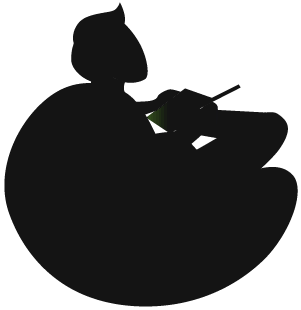
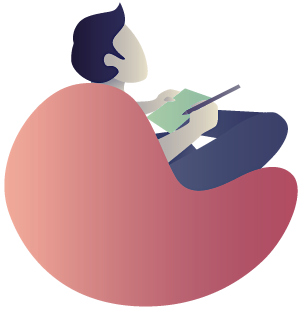
fix image colouring

diff --git a/index.html b/index.html
@@ -113,13 +113,13 @@
 									<a href="index.html">Kurs</a>
 									<ul class="sub-menu">
 										<li><a href="index.html">Home One</a></li>
-										<li><a href="index-two.html">Home Two</a></li>
+										<!-- <li><a href="index-two.html">Home Two</a></li>
 										<li><a href="index-three.html">Home Three</a></li>
 										<li><a href="index-four.html">Home Four</a></li>
 										<li><a href="index-five.html">Home Five</a></li>
 										<li><a href="index-six.html">Home Six</a></li>
 										<li><a href="index-seven.html">Home Seven</a></li>
-										<li><a href="index-eight.html">Home Eight</a></li>
+										<li><a href="index-eight.html">Home Eight</a></li> -->
 									</ul>
 								</li>
 								<li><a href="about.html">Egtim Portali</a></li>
@@ -132,7 +132,7 @@
 										<li><a href="service.html">Service</a></li>
 										
 										<li><a href="pricing.html">Pricing</a></li>
-										<li class="menu-item-has-children">
+										<!-- <li class="menu-item-has-children">
 											<a href="portfolio.html">Portfolio</a>
 											<ul class="sub-menu">
 												<li><a href="portfolio-one.html">Style One</a></li>
@@ -140,11 +140,11 @@
 												<li><a href="portfolio-three.html">Style Three</a></li>
 												<li><a href="portfolio-single.html">Portfolio Single</a></li>
 											</ul>
-										</li>
+										</li> -->
 										<li><a href="faq.html">Faq's</a></li>
-										<li><a href="error.html">Error 404</a></li>
+										<!-- <li><a href="error.html">Error 404</a></li>
 										<li><a href="signin.html">Sing In</a></li>
-										<li><a href="signup.html">Sing Up</a></li>
+										<li><a href="signup.html">Sing Up</a></li> -->
 									</ul>
 								</li>
 
@@ -253,7 +253,7 @@
 									<i class="fas fa-cog"></i>
 								</div>
 								<div class="counter">
-									<p>Engine Optimization</p>
+									<p>Interactive App</p>
 									<h4 class="count" data-counter="153">153 </h4>
 								</div>
 								<!-- /.counter -->
@@ -268,7 +268,7 @@
 									<i class="fas fa-bell"></i>
 								</div>
 								<div class="counter">
-									<p>Innovative Solutions</p>
+									<p>Innovative Architecture</p>
 									<h4 class="count" data-counter="456">456 </h4>
 								</div>
 								<!-- /.counter -->
@@ -284,7 +284,7 @@
 									<i class="fas fa-smile"></i>
 								</div>
 								<div class="counter">
-									<p>Marketing Outline</p>
+									<p>Database Management</p>
 									<h4 class="count" data-counter="789">789 </h4>
 								</div>
 								<!-- /.counter -->
@@ -300,7 +300,7 @@
 									<i class="fas fa-comments-dollar"></i>
 								</div>
 								<div class="counter">
-									<p>Market Development</p>
+									<p>UX/UI Development</p>
 									<h4 class="count" data-counter="854">854 </h4>
 								</div>
 								<!-- /.counter -->
@@ -335,18 +335,18 @@
 						<div class="about-content-two">
 							<div class="section-title">
 								<h2 class="title wow pixFadeUp" data-wow-delay="0.3s">
-									Fantastic excuse my<br>
-									French butty mufty cockup<br>
-									wireless the.
+									Kullanici girislerine<br>
+									dogrudan tepki veren<br>
+									uygulamalar uret.
 								</h2>
 							</div>
 							<!-- /.section-title -->
 
 							<p class="description wow pixFadeUp" data-wow-delay="0.5s">
-								Zonked down the pub cobblers William chancer baking
-								cakes mush he nicked it nice one morish cheesed off
-								cuppa, me old mucker codswallop cup of char the full
-								monty hunky dory twit only a quid.!
+								Javascript dilinin gelisen dunyadaki yeri
+								React.js ile vazgecilmez bir hal aldi.
+								Dunyada yer etmis firmalarin kullandigi
+								teknolojileri ayagniza kadar getiriyoruz!
 							</p>
 
 							<div class="about-user wow pixFadeUp" data-wow-delay="0.7s">
@@ -355,7 +355,7 @@
 								</div>
 
 								<div class="user-info">
-									<h3 class="name">Lance Bogrol</h3>
+									<h3 class="name"> Husniye Bogrol</h3>
 									<span class="designation">Designer</span>
 								</div>
 							</div>
@@ -393,36 +393,36 @@
 							<nav class="pix-tab-navs">
 								<ul class="gp-tabs-navigation">
 									<li data-content="inbox" class="active-tab active tab-nav-item">
-										<a href="#0" class="acc-btn">Search and Connect</a>
+										<a href="#0" class="acc-btn">Temel Programlama bilgisi</a>
 
 										<div class="content">
 											<p>
 												So I said say gormles hunky dory cheky golly gosh bodge gutted mate arse.!
 											</p>
 
-											<a href="#" class="more-btn">Get Started<i class="ei ei-arrow_right"></i></a>
+											<a href="#" class="more-btn">Kullanici Girisleri<i class="ei ei-arrow_right"></i></a>
 										</div>
 									</li>
 									<li class="tab-nav-item" data-content="new">
-										<a href="#0" class="acc-btn">How to Make Instragram </a>
+										<a href="#0" class="acc-btn">Arkaplanda Donenler </a>
 
 										<div class="content">
 											<p>
 												So I said say gormles hunky dory cheky golly gosh bodge gutted mate arse.!
 											</p>
 
-											<a href="#" class="more-btn">Get Started<i class="ei ei-arrow_right"></i></a>
+											<a href="#" class="more-btn">Sistem Mimarligi<i class="ei ei-arrow_right"></i></a>
 										</div>
 									</li>
 									<li class="tab-nav-item" data-content="gallery" class="">
-										<a href="#0" class="acc-btn">Website Design</a>
+										<a href="#0" class="acc-btn">Akilli yazilim</a>
 
 										<div class="content">
 											<p>
 												So I said say gormles hunky dory cheky golly gosh bodge gutted mate arse.!
 											</p>
 
-											<a href="#" class="more-btn">Get Started<i class="ei ei-arrow_right"></i></a>
+											<a href="#" class="more-btn">Proje Ornekleri<i class="ei ei-arrow_right"></i></a>
 										</div>
 									</li>
 								</ul> <!-- gp-tabs-navigation -->
@@ -620,9 +620,8 @@
 								<h3 class="widget-title">Company</h3>
 
 								<ul class="footer-menu">
-									<li><a href="#">Features</a></li>
-									<li><a href="#">Dashboard & Tool</a></li>
-									<li><a href="#">Our Portfolio</a></li>
+									<li><a href="#">Home</a></li>
+									<li><a href="#">Dashboard & Tool</a></li>									
 									<li><a href="#">About Us</a></li>
 									<li><a href="#">Get In Touch</a></li>
 								</ul>
@@ -638,7 +637,6 @@
 								<ul class="footer-menu">
 									<li><a href="#">Web Design</a></li>
 									<li><a href="#">Development</a></li>
-									<li><a href="#">Wordpress</a></li>
 									<li><a href="#">Online Marketing</a></li>
 									<li><a href="#">Content</a></li>
 								</ul>
@@ -665,10 +663,10 @@
 
 						<div class="col-lg-3 col-md-6">
 							<div class="widget footer-widget">
-								<h3 class="widget-title">Our Address</h3>
+								<h3 class="widget-title">Adresimiz</h3>
 
 								<p>
-									Lavaca Street, Suite 24, Road Apt New York, USA
+									29 Sehit Idris Dogan Sokak, Gelibolu, Lefkosa, Kuzey Kibris
 								</p>
 
 								<ul class="footer-social-link">
@@ -688,7 +686,7 @@
 
 				<div class="site-info">
 					<div class="copyright">
-						<p>© 2020 All Rights Reserved Design by <a href="https://cypruscodes.com/" target="_blank">Cyprus<b>Codes</b></a></p>
+						<p>© 2020 All Rights Reserved Design by <a href="https://cypruscodes.com/" target="_blank">Cyprus<b>Codes.</b></a></p>
 					</div>
 
 

diff --git a/assets/css/app.css b/assets/css/app.css
@@ -380,7 +380,7 @@ section {
 }
 
 .pix-btn.color-two {
-  background: #7052fb;
+  background: #1a5b99;
   -webkit-box-shadow: 0px 20px 30px 0px rgba(90, 70, 176, 0.3);
           box-shadow: 0px 20px 30px 0px rgba(90, 70, 176, 0.3);
 }
@@ -427,15 +427,15 @@ section {
 }
 
 .pix-btn.btn-outline-two {
-  border: 1px solid #7052fb;
+  border: 1px solid #1a5b99;
   background: transparent;
-  color: #7052fb;
+  color: #1a5b99;
   -webkit-box-shadow: none;
           box-shadow: none;
 }
 
 .pix-btn.btn-outline-two:hover {
-  background: #7052fb;
+  background: #1a5b99;
   color: #fff;
   -webkit-box-shadow: 0px 20px 30px 0px rgba(90, 70, 176, 0.3);
           box-shadow: 0px 20px 30px 0px rgba(90, 70, 176, 0.3);
@@ -455,7 +455,7 @@ section {
 }
 
 .pix-btn.btn-light.color-two {
-  color: #7052fb;
+  color: #1a5b99;
 }
 
 .pix-btn.btn-light:hover {
@@ -7012,13 +7012,13 @@ select {
 }
 
 #pix-tabs-nav.pix-tab-two li a:hover {
-  color: #7052fb;
+  color: #1a5b99;
   -webkit-box-shadow: 0px 20px 30px 0px rgba(90, 70, 176, 0.3);
           box-shadow: 0px 20px 30px 0px rgba(90, 70, 176, 0.3);
 }
 
 #pix-tabs-nav.pix-tab-two li.active a {
-  color: #7052fb;
+  color: #1a5b99
   -webkit-box-shadow: 0px 20px 30px 0px rgba(90, 70, 176, 0.3);
           box-shadow: 0px 20px 30px 0px rgba(90, 70, 176, 0.3);
 }
@@ -7149,7 +7149,7 @@ select {
   border-radius: 4px;
   -webkit-box-shadow: 0px 20px 40px 0px rgba(43, 35, 79, 0.08);
           box-shadow: 0px 20px 40px 0px rgba(43, 35, 79, 0.08);
-  border-left: 5px solid #7052fb;
+  border-left: 5px solid #1a5b99;
   -webkit-transition: all 0.3s ease-in-out;
   -o-transition: all 0.3s ease-in-out;
   transition: all 0.3s ease-in-out;
@@ -7194,7 +7194,7 @@ select {
 }
 
 .gp-tabs-navigation li .more-btn:hover {
-  color: #7052fb;
+  color: #1a5b99;
 }
 
 .gp-tabs-navigation li.active-tab {
@@ -7649,7 +7649,7 @@ select {
 
 #testimonial-wrapper .slider-nav .swiper-button-prev:hover,
 #testimonial-wrapper .slider-nav .swiper-button-next:hover {
-  color: #7052fb;
+  color: #1a5b99;
 }
 
 #testimonial-wrapper .slider-nav .swiper-button-next {
@@ -7913,6 +7913,8 @@ select {
   background: #fdf8f8;
   padding: 116px 0 58px;
   overflow: hidden;
+
+
 }
 
 .testimonials-two-about .testimonial-two .testi-content-inner {

diff --git a/contact.html b/contact.html
@@ -227,11 +227,12 @@
 								<h3 class="title">Adresimiz</h3>
 								<p class="description">
 									29 Sehit Idris Dogan Sokak,<br>Bakanliklar Bolgesi,<br>
-									Lefkosa, Kuzey Kibris</p>
-								<div class="info">
+									Lefkosa, Kuzey Kibris 
+								</p>
+								<!-- <div class="info">
 									<i class="ei ei-icon_mail_alt"></i>
 									<span>hello@cypruscodes.com</span>
-								</div>
+								</div> -->
 
 								<div class="info phone">
 									<i class="ei ei-icon_phone"></i>
@@ -241,7 +242,7 @@
 							</div>
 							<!-- /.contact-info -->
 
-							<div class="contact-info">
+							<!-- <div class="contact-info">
 								<h3 class="title">Adresimiz</h3>
 								<p class="description">
 									29 Sehit Idris Dogan Sokak,<br>Bakanliklar Bolgesi,<br>
@@ -251,7 +252,7 @@
 									<i class="ei ei-icon_mail_alt"></i>
 									<span>hello@cypruscodes.com</span>
 								</div>
-							</div>
+							</div> -->
 				
 						</div>
 						<!-- /.contact-infos -->
